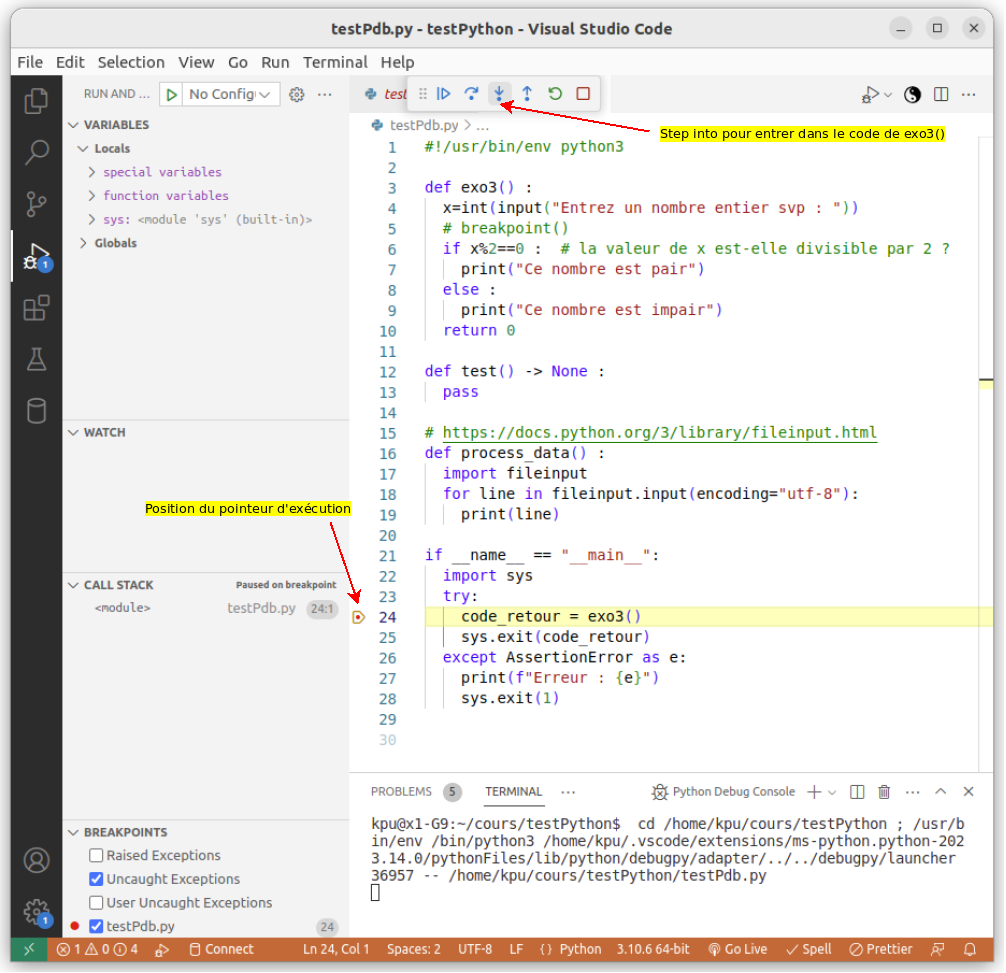
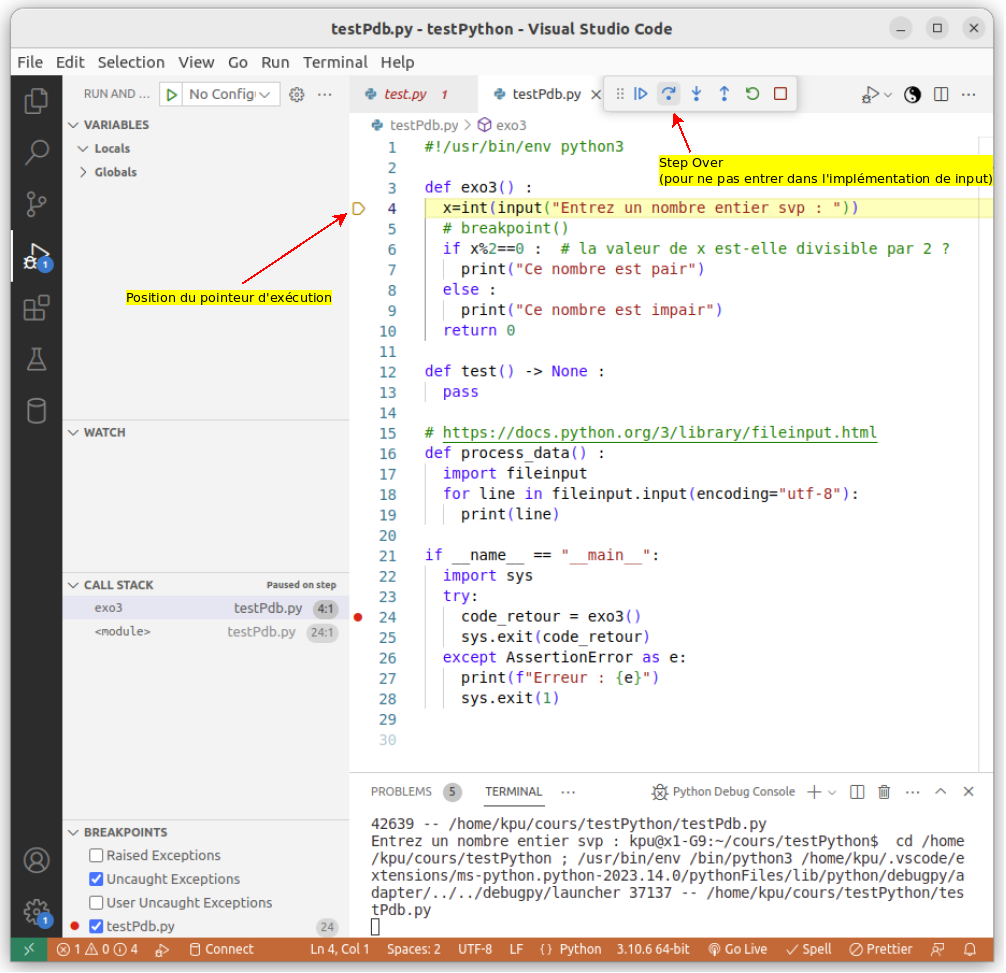
fin de première version introduction à l'usage du debogger

diff --git a/docs/pages/index.html b/docs/pages/index.html
@@ -530,11 +530,11 @@ body.book #toc,body.book #preamble,body.book h1.sect0,body.book .sect1>h2{page-b
 </li>
 <li><a href="#_utiliser_le_débogueur_debugger_intégré">Utiliser le débogueur (debugger) intégré</a>
 <ul class="sectlevel3">
-<li><a href="#_instruction_breakpoint">instruction <code>breakpoint()</code></a></li>
+<li><a href="#_en_mode_console">En mode console</a></li>
 <li><a href="#_débogueur_piloté_par_lide">Débogueur piloté par l&#8217;IDE</a></li>
 </ul>
 </li>
-<li><a href="#_les_assertions_pour_se_prémunir_de_bugs">Les assertions pour se prémunir de bugs</a>
+<li><a href="#_les_assertions_pour_se_prémunir_de_certains_bugs">Les assertions pour se prémunir de certains bugs</a>
 <ul class="sectlevel3">
 <li><a href="#_linstruction_assert">L&#8217;instruction assert</a></li>
 </ul>
@@ -2286,7 +2286,7 @@ Déboguer c&#8217;est entreprendre une analyse d&#8217;un programme en cours d&#
 <p>Utilisez les commandes <code>break</code>, <code>continue</code>, <code>step</code>, <code>print</code>, etc., pour naviguer dans le code et examiner les valeurs.</p>
 </div>
 <div class="sect3">
-<h4 id="_instruction_breakpoint">instruction <code>breakpoint()</code></h4>
+<h4 id="_en_mode_console">En mode console</h4>
 <div class="paragraph">
 <p>L&#8217;instruction <code>breakpoint()</code> permet de mettre le programme en pause afin de consulter des valeurs à un instant <em>t</em> choisi par le développeur.</p>
 </div>
@@ -2352,13 +2352,7 @@ $</code></pre>
 <div class="sect4">
 <h5 id="_exercice_30">EXERCICE 30</h5>
 <div class="paragraph">
-<p>TODO</p>
-</div>
-</div>
-<div class="sect4">
-<h5 id="_exercice_31">EXERCICE 31</h5>
-<div class="paragraph">
-<p>TODO</p>
+<p>Placer l&#8217;instruction <code>breakpoint()</code> dans un de vos scripts, et tester le.</p>
 </div>
 </div>
 </div>
@@ -2386,41 +2380,67 @@ $</code></pre>
 <p>Dans l&#8217;éditeur, une colonne (à gauche) est dédiée à la pause de points d&#8217;arrêt.</p>
 </div>
 <div class="paragraph">
-<p>Exemple :
+<p>Exemple pour entrer dans le code d&#8217;une fonction appelée
 <span class="image"><img src="../assets/images/code-debug-2-dia.png" alt="code-debug-2"></span></p>
 </div>
 <div class="paragraph">
-<p>Exemple :
+<p>Exemple pour ne pas entrer dans le code d&#8217;une fonction appelée
 <span class="image"><img src="../assets/images/code-debug-3-dia.png" alt="code-debug-3"></span></p>
+</div>
+<div class="paragraph">
+<p>Exemple de consultation des variables locales
+<span class="image"><img src="../assets/images/code-debug-4-dia.png" alt="code-debug-4"></span></p>
 </div>
 <div class="paragraph">
 <p>N&#8217;hésitez pas à explorer les autres commandes de la bare de debug (<code>continue</code>, <code>restart</code>, <code>stop</code>)</p>
 </div>
 </div>
+<div class="sect4">
+<h5 id="_exercice_31">EXERCICE 31</h5>
+<div class="paragraph">
+<p>Reprendre l&#8217;exemple ci-dessous, supprimer tous les points d&#8217;arrêt.</p>
+</div>
+<div class="paragraph">
+<p>Ajouter un <strong>point d&#8217;arrêt conditionnel</strong> sur la ligne 6. Pour cela, une fois placé le point d&#8217;arrêt, faire un clic droit sur celui-ci , puis sélectionner <code>Edit breakpoint&#8230;&#8203;</code>. Comme valeur de l&#8217;expression, inscrire par exemple <code>x == 42</code>.</p>
+</div>
+<div class="paragraph">
+<p>Lancer le mode debug. Le programme se mettra en pause debug que si la valeur de x égalera 42.</p>
+</div>
+<div class="paragraph">
+<p>Une technique fort pratique pour pister des erreurs !</p>
+</div>
+<div class="paragraph">
+<p>Testez-la !</p>
+</div>
+</div>
 </div>
 </div>
 <div class="sect2">
-<h3 id="_les_assertions_pour_se_prémunir_de_bugs">Les assertions pour se prémunir de bugs</h3>
+<h3 id="_les_assertions_pour_se_prémunir_de_certains_bugs">Les assertions pour se prémunir de certains bugs</h3>
 <div class="paragraph">
 <p>Les assertions sont des instructions qui vérifient la cohérence de valeurs en cours d&#8217;exécution dans le code.</p>
 </div>
 <div class="paragraph">
-<p>Elles peuvent être utilisées pour vérifier des résultats intermédiaires ou des conditions d&#8217;utilisation essentielles sont respectées.</p>
+<p>Elles peuvent être utilisées pour vérifier des résultats intermédiaires ou des conditions d&#8217;utilisation de fonctions (particulièrement dans le cas de langage de script non typés).</p>
 </div>
 <div class="sect3">
 <h4 id="_linstruction_assert">L&#8217;instruction assert</h4>
 <div class="paragraph">
-<p>L&#8217;instruction <code>assert</code> permet de vérifier qu&#8217;une condition est vraie à un point particulier du code.
-Si la condition est fausse, une exception <code>AssertionError</code> sera levée, indiquant qu&#8217;il y a un problème à cet endroit.</p>
+<p>L&#8217;instruction <code>assert</code> permet de vérifier qu&#8217;une condition est vraie à un point particulier du code.</p>
+</div>
+<div class="paragraph">
+<p>Si la condition est fausse, une exception <code>AssertionError</code> sera levée, indiquant qu&#8217;il y a un problème à cet endroit.</p>
 </div>
 <div class="listingblock">
+<div class="title">Listing 19. Exemple d&#8217;instruction <code>assert</code> (les listes sont étudiées dans la section suivante)</div>
 <div class="content">
-<pre class="highlightjs highlight"><code class="language-python hljs" data-lang="python">def extract_name(full_name):
+<pre class="highlightjs highlight"><code class="language-python hljs" data-lang="python">def extract_name(full_name : str) -&gt; tuple :
     """
     Algorithme naïf, full_name de la forme "prénom nom"
+    Retourne une liste de 2 éléments
     """
     assert isinstance(full_name, str), "Le nom complet doit être une chaîne de caractères."
-    names = full_name.split()
+    names = full_name.split() # place les différentes partie de full_name dans une liste
     assert len(names) &gt;= 2, "Le nom complet doit contenir au moins un prénom et un nom de famille."
     first_name = names[0]
     last_name = names[-1]
@@ -2456,10 +2476,10 @@ except AssertionError as e:
 <p>Ces assertions nous permettent de nous assurer que la fonction <code>extract_name()</code> est correctement utilisée avec une chaîne de caractères représentant un nom complet. Si un développeur utilise la fonction de manière incorrecte en passant un autre type de variable ou une chaîne de caractères mal formatée, les assertions lèveront une exception pour signaler le problème.</p>
 </div>
 <div class="paragraph">
-<p>Notez que l&#8217;utilisation des assertions dépend du contexte de votre programme et de l&#8217;endroit où vous souhaitez détecter les erreurs. <strong>Les assertions sont particulièrement utiles pour valider les entrées de fonction, les préconditions et les invariants, permettant ainsi de s&#8217;assurer que le code est utilisé correctement et en accord avec les attentes du développeur.</strong></p>
+<p>Notez que l&#8217;utilisation des assertions dépend du contexte de votre programme et de l&#8217;endroit où vous souhaitez détecter les erreurs. <strong>Les assertions sont particulièrement utiles pour valider les entrées de fonction, les préconditions et les invariants, permettant ainsi de s&#8217;assurer que le code est utilisé correctement et en accord avec les attentes du développeur concepteur de la fonction.</strong></p>
 </div>
 <div class="sect4">
-<h5 id="_exercice_32">EXERCICE 32</h5>
+<h5 id="_exercice_33">EXERCICE 33</h5>
 <div class="paragraph">
 <p>Tester la fonction <code>extract_name</code>, avec au moins 3 scénarios :</p>
 </div>
@@ -2473,6 +2493,16 @@ except AssertionError as e:
 </li>
 <li>
 <p>un avec une erreur de mauvais contenu de chaîne</p>
+</li>
+</ol>
+</div>
+<div class="paragraph">
+<p>Pour les plus avancés :</p>
+</div>
+<div class="olist arabic">
+<ol class="arabic" start="4">
+<li>
+<p>Modifier la fonction pour qu&#8217;elle considère que le nom de famille est toute la seconde partie après le prénom (premier mot). À tester avec <code>Guido van Rossum</code>.</p>
 </li>
 </ol>
 </div>
@@ -2496,7 +2526,7 @@ except AssertionError as e:
 <br>
 Pour l&#8217;utilisateur, limite l&#8217;exploitation de la variable aux opérations définies sur ce type.</p>
 <div class="listingblock">
-<div class="title">Listing 19. La fonction 'type' retourne le type de son argument</div>
+<div class="title">Listing 20. La fonction 'type' retourne le type de son argument</div>
 <div class="content">
 <pre class="highlightjs highlight"><code class="language-python hljs" data-lang="python">&gt;&gt;&gt; type(42)
 &lt;class 'int'&gt;
